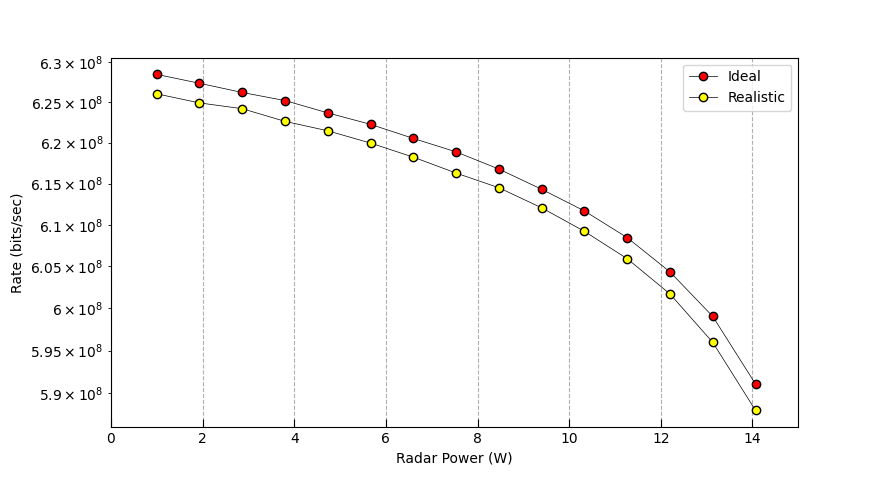
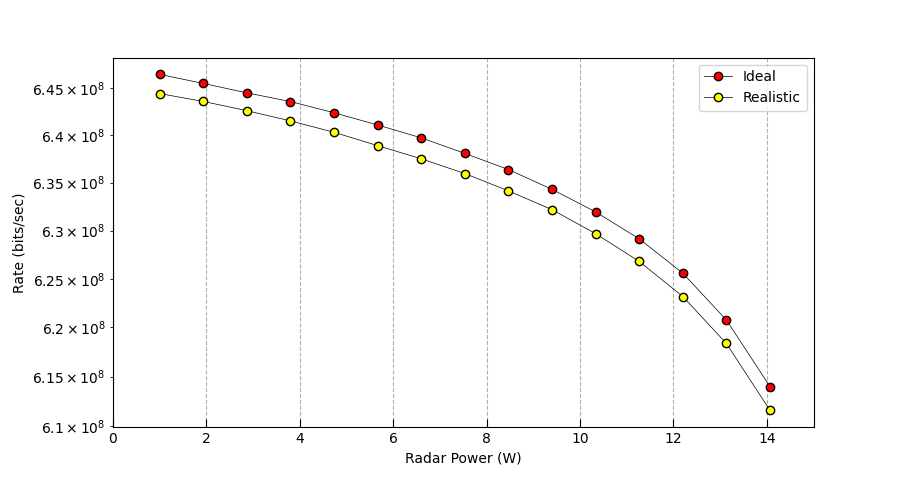
add new figures

diff --git a/Modelling/v2x.py b/Modelling/v2x.py
@@ -4,12 +4,12 @@ from scipy import constants
 import scipy
 
 # SIM PARAMETERS
-N = 250_000 # Num iterations
+N = 500_000 # Num iterations
 L = 1 # Number of links to target
 NUM_CARS = 2 # Total number of cars for radar bounces
 NUM_INTERFERERS = 2 # Total number of interfering cars
 NUM_POINTS = 15
-NUM_PLOTS = 2
+NUM_PLOTS = 3
 
 target_rcs = 100
 vru_rcs = 10
@@ -139,9 +139,12 @@ for a in range(NUM_PLOTS):
                         # Worst case - interferers at reuse dist of SV, so +- link dist
                         interferer_dists = np.array([reuse_dist - link_dist, reuse_dist + link_dist])
                     case 1: 
-                        interferer_dists = np.array([-link_dist, link_dist]) + (reuse_dist * np.random.beta(5, 1, NUM_INTERFERERS))
+                        interferer_dists = np.array([-link_dist, link_dist]) + ((reuse_dist-12) * np.random.beta(5, 1, NUM_INTERFERERS))
                     case 2:
                         interferer_dists = np.zeros(NUM_INTERFERERS) + 15 # 6 Interferers at 15 m
+                for i in range(NUM_INTERFERERS): # Enforce minimum distance
+                    if interferer_dists[i] > 12:
+                        interferer_dists[i] = 12
 
                 # Comms channel matrix
                 H_c = np.matrix(np.zeros((Ncr, Nct), complex))
@@ -184,7 +187,7 @@ for a in range(NUM_PLOTS):
 
                 # Radar
                 clutterInterference = 1.2153e-11
-                car_dists = 15 + np.random.pareto(0.7, NUM_CARS)
+                car_dists = 12 + np.random.pareto(0.7, NUM_CARS)
                 # car_dists = np.zeros(NUM_CARS) + 24
                 z = 0.01
                 s_noise = np.random.normal(0, s_noise_power)
